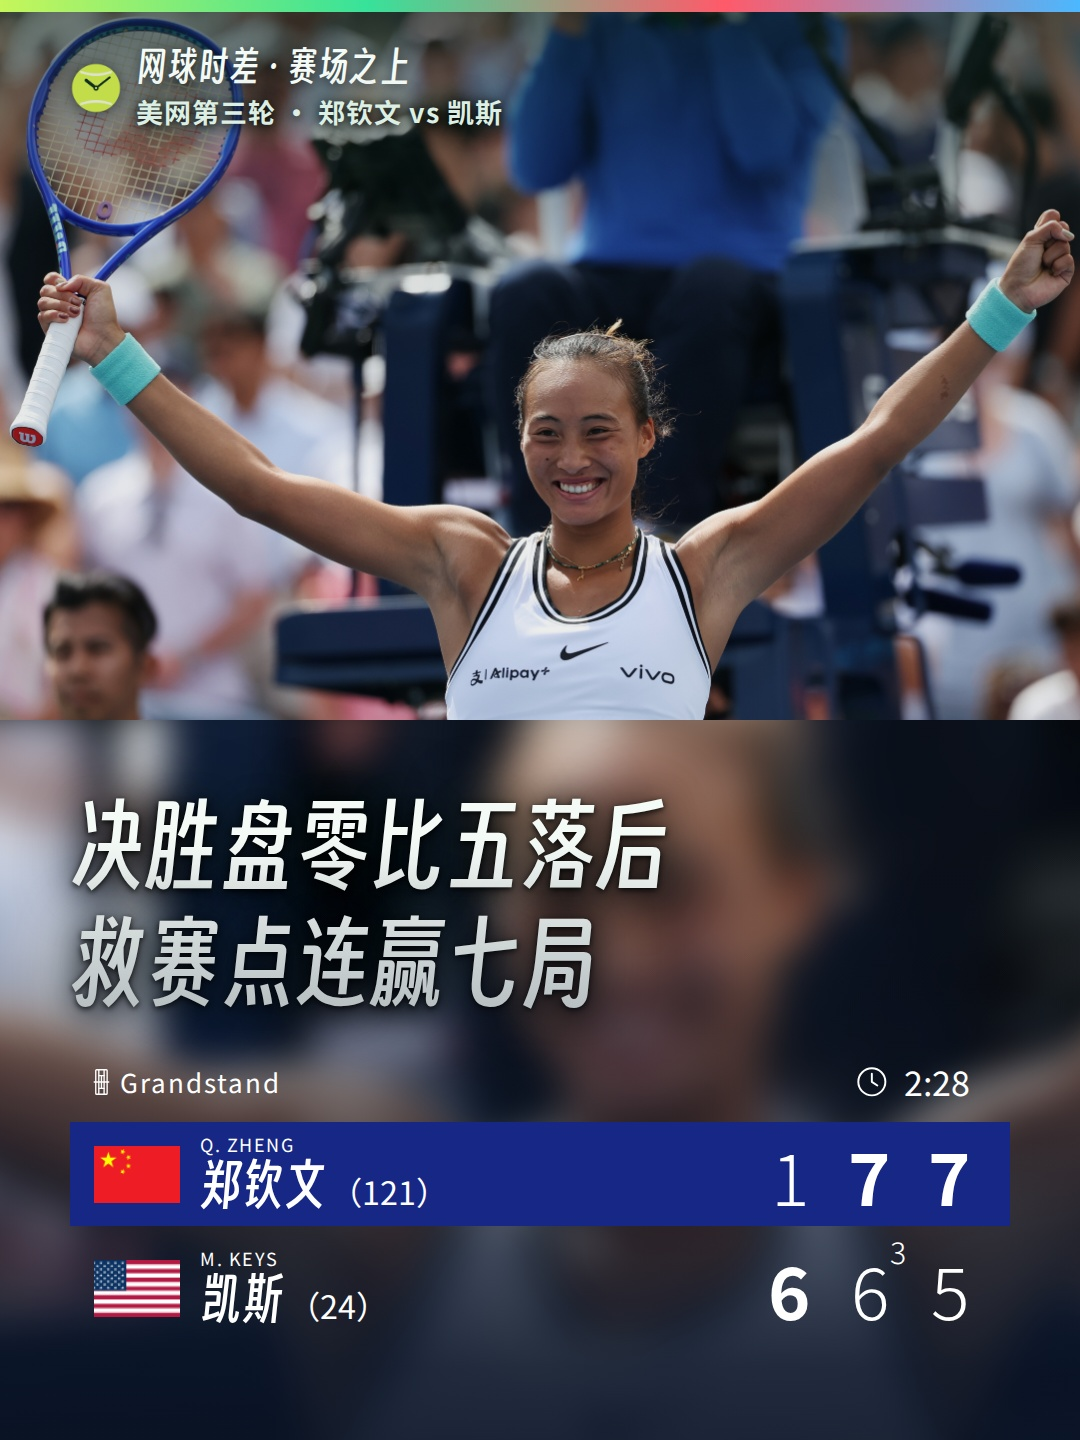
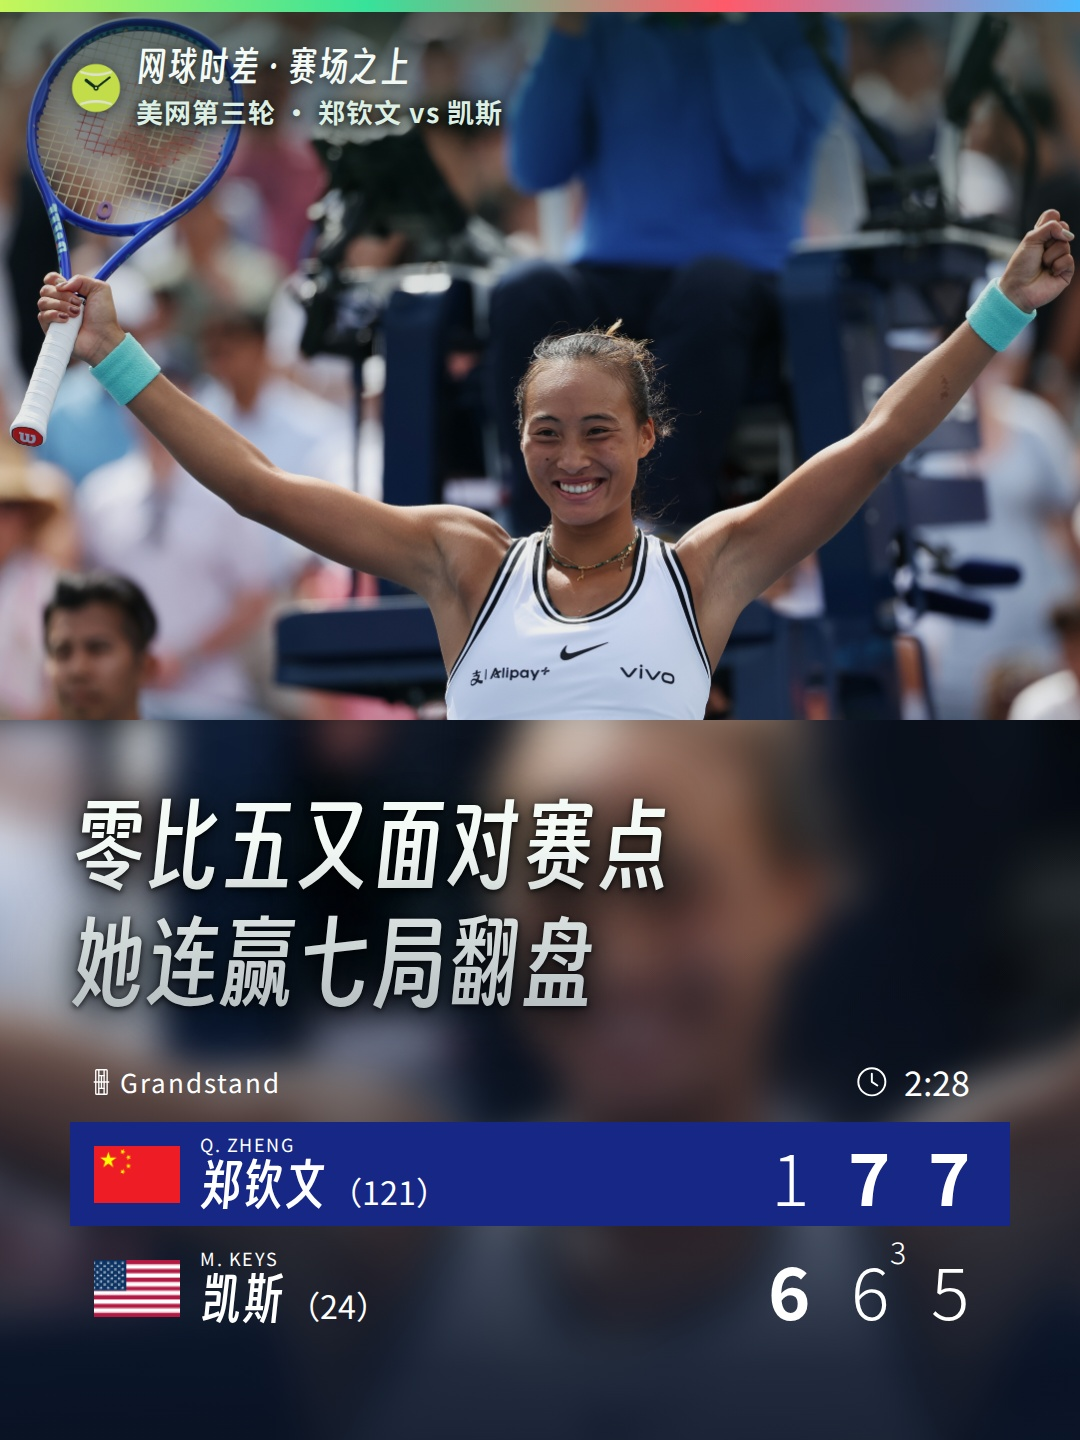
reel: render zheng-keys-us-open-2026-r3

Changed region(s): [[0.0611, 0.5312, 0.6111, 0.7188]]

diff --git a/output/2026-09-06/reel/zheng-keys-us-open-2026-r3/copy.html b/output/2026-09-06/reel/zheng-keys-us-open-2026-r3/copy.html
@@ -46,27 +46,27 @@
     </section>
     <section>
       <div class="label"><span>正文</span><button type="button" data-copy="body">复制正文</button></div>
-      <textarea id="body" readonly>郑钦文0-5落后救赛点，连赢七局逆转凯斯🎾
+      <textarea id="body" readonly>郑钦文0-5落后救下赛点，连赢七局逆转凯斯🎾
 
-北京时间9月5日深夜，美网女单第三轮，大看台球场。世界第121、从资格赛打上来的郑钦文，1-6、7-6(3)、7-5逆转22号种子、2025年澳网冠军凯斯，两小时二十八分钟，闯进16强。
+北京时间9月5日深夜，美网女单第三轮，大看台球场。一边是世界第121、从资格赛一路打上来的郑钦文，一边是22号种子、2025年澳网冠军凯斯。两小时二十八分钟之后，1-6、7-6(3)、7-5，赢的是前者。
 
-首盘只打了23分钟。她的一发只进了29%，还有4个双误，35分里只拿到10分——转播说，这是凯斯近乎完美的一盘。
+可开头完全不是这个样子。首盘只打了23分钟：一发只进了29%，4个双误，35分里她只拿到10分。转播说，这是凯斯近乎完美的一盘。那23分钟里，她像是还没走进这场球。
 
-第二盘她5-3发球胜盘被破回来，5-5、6-6，进了抢七。2-2她发球，那一分她上前把球拿下，转播说：够勇敢，不再被动了。3-2。
+第二盘她5-3领先，发球胜盘却被破了回来。5-5，6-6，抢七。2-2她发球，那一分她上前把球拿下，转播说：够勇敢，不再被动了。3-2。
 
-转折点就在下一分——抢七第六分。凯斯发球，一记放小球打丢了，转播说这一拍代价很大。2-4。之后的四分郑钦文拿了三分，7-3追平。这一盘凯斯的非受迫失误从3个涨到16个，郑钦文只有6个；她的一发得分率从首盘的50%提到了89%。
+转折点就在下一分。凯斯发球，2-3，一记放小球打丢——转播说这一拍代价很大。2-4。从这一分起风向变了：之后的四分郑钦文拿了三分，7-3，1-1。这一盘凯斯的非受迫失误从3个涨到16个，郑钦文只有6个；她的一发得分率从首盘的50%提到了89%。
 
-决胜盘凯斯连赢五局，5-0。5-1她发球胜赛局，40-30，赛点——郑钦文离出局只差一分。
+然后是决胜盘，最难看的那一段。凯斯连赢五局，5-0。5-1她发球胜赛局，40-30，赛点。郑钦文离出局，只差一分。
 
-她救下来了。平分，破发点，破发。5-2。
+那一分，她救了下来。平分，破发点，破发。5-2。
 
-然后是凯斯最后的三个发球局：5-3，被零封破；5-5，再被破。6-5，郑钦文自己发球，40-30，这一次赛点在她手里。球落地，她仰面躺在了球场上。
+接着是凯斯最后的三个发球局：5-3，被零封破；5-5，再破。6-5，轮到郑钦文发球，40-30——这一次，赛点在她手里。球落地，她仰面躺在了球场上。两小时二十八分钟，全落在那一躺里。
 
-从0-5到7-5，连赢七局。全场195分她只多赢一分，98比97；最后十个球她赢了八个；上网13次拿下11分。转播的原话：从悬崖边回来，这是近几年美网最大的逆转之一。
+从0-5到7-5，连赢七局。全场195分她只多赢了一分，98比97；最后十个球，她赢了八个；上网13次拿下11分。转播的原话：从悬崖边回来，这是近几年美网最大的逆转之一。
 
-值得记一笔的是对面那个人。上一轮凯斯决胜盘2-5落后、连救五个赛点逆转邦达尔；这一轮她手握赛点，却输给了连赢七局的郑钦文。三次交手，郑钦文2-1领先。
+再看看对面那个人。上一轮凯斯决胜盘2-5落后、连救五个赛点逆转邦达尔；这一轮她手握赛点，却输给了一个连赢七局的人。三次交手，郑钦文2-1领先。
 
-从资格赛第一轮打到16强，她已经连赢六场。这样的翻盘，你上一次看见是什么时候？
+从资格赛第一轮到16强，六连胜。一个世界第121的人，在大看台球场救下赛点翻盘。这样的夜晚，你上一次看见是什么时候？
 
 #网球时差 #美网 #郑钦文 #WTA #赛场之上</textarea>
     </section>
